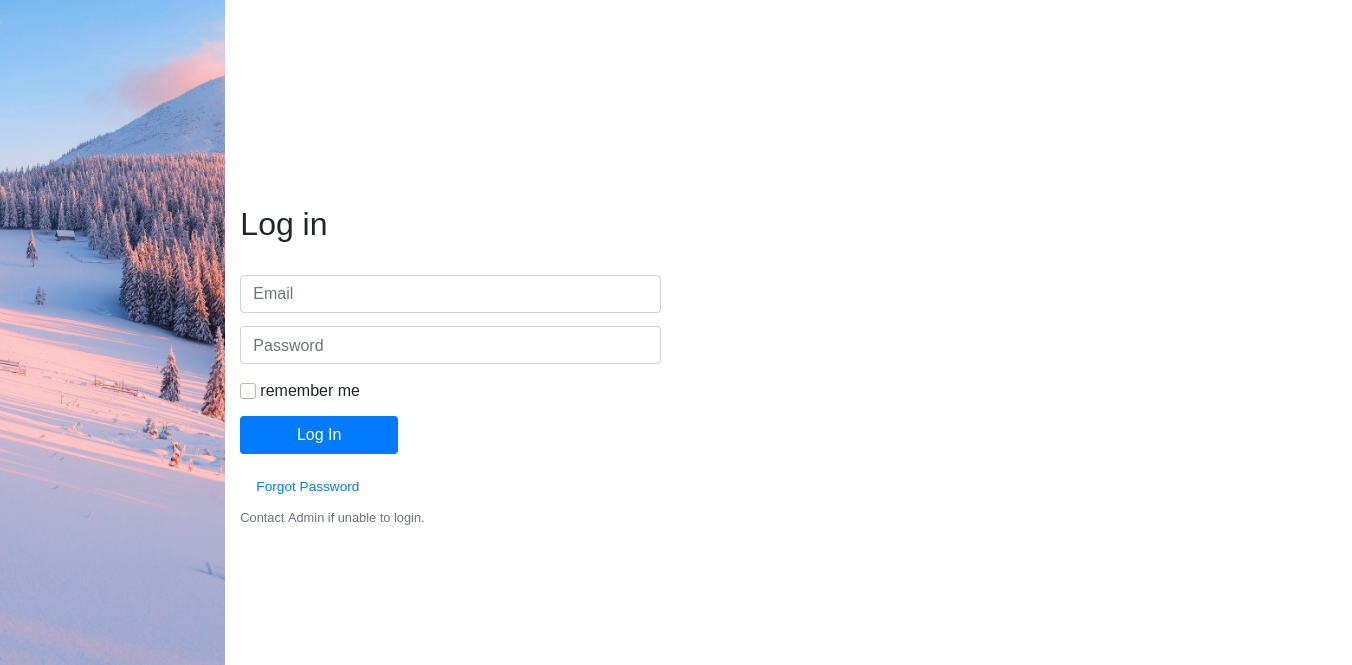
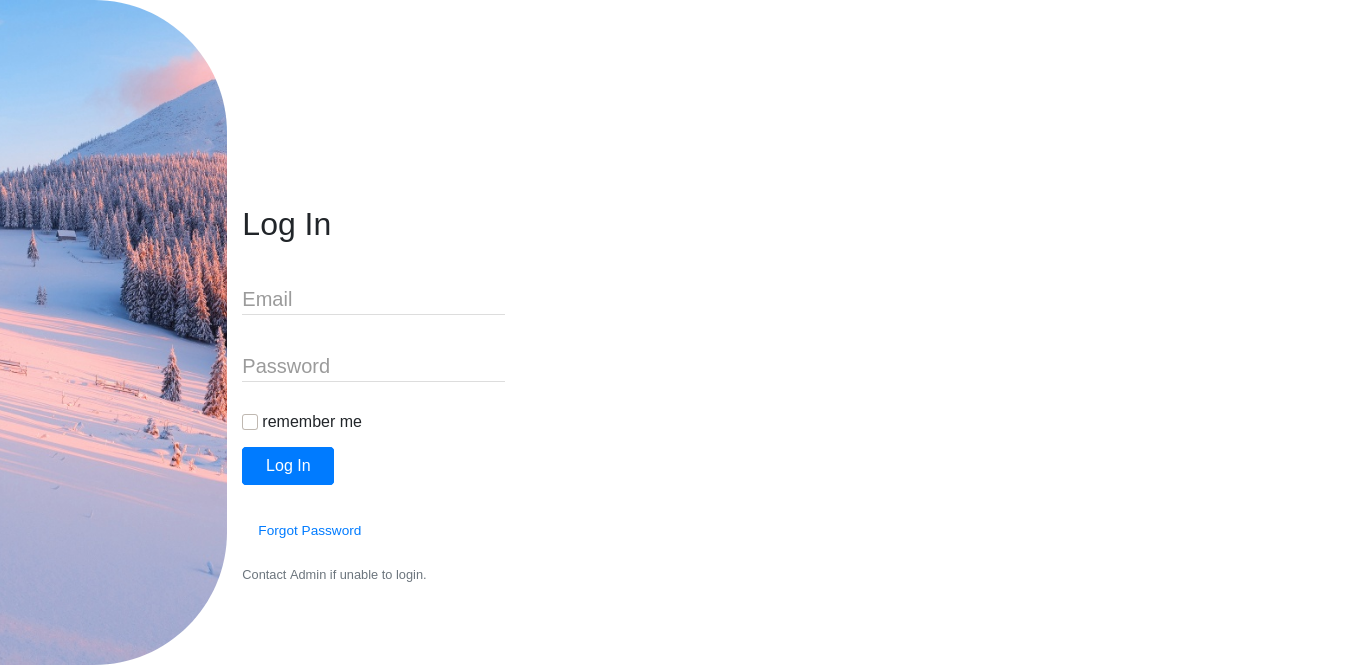
Improved Image Display

diff --git a/src/Login_light.css b/src/Login_light.css
@@ -6,6 +6,8 @@
   background-repeat: no-repeat;
   background-size: cover;
   border-color: cadetblue;
+  border-top-right-radius: 20vh;
+  border-bottom-right-radius: 20vh;
 
 }
 
